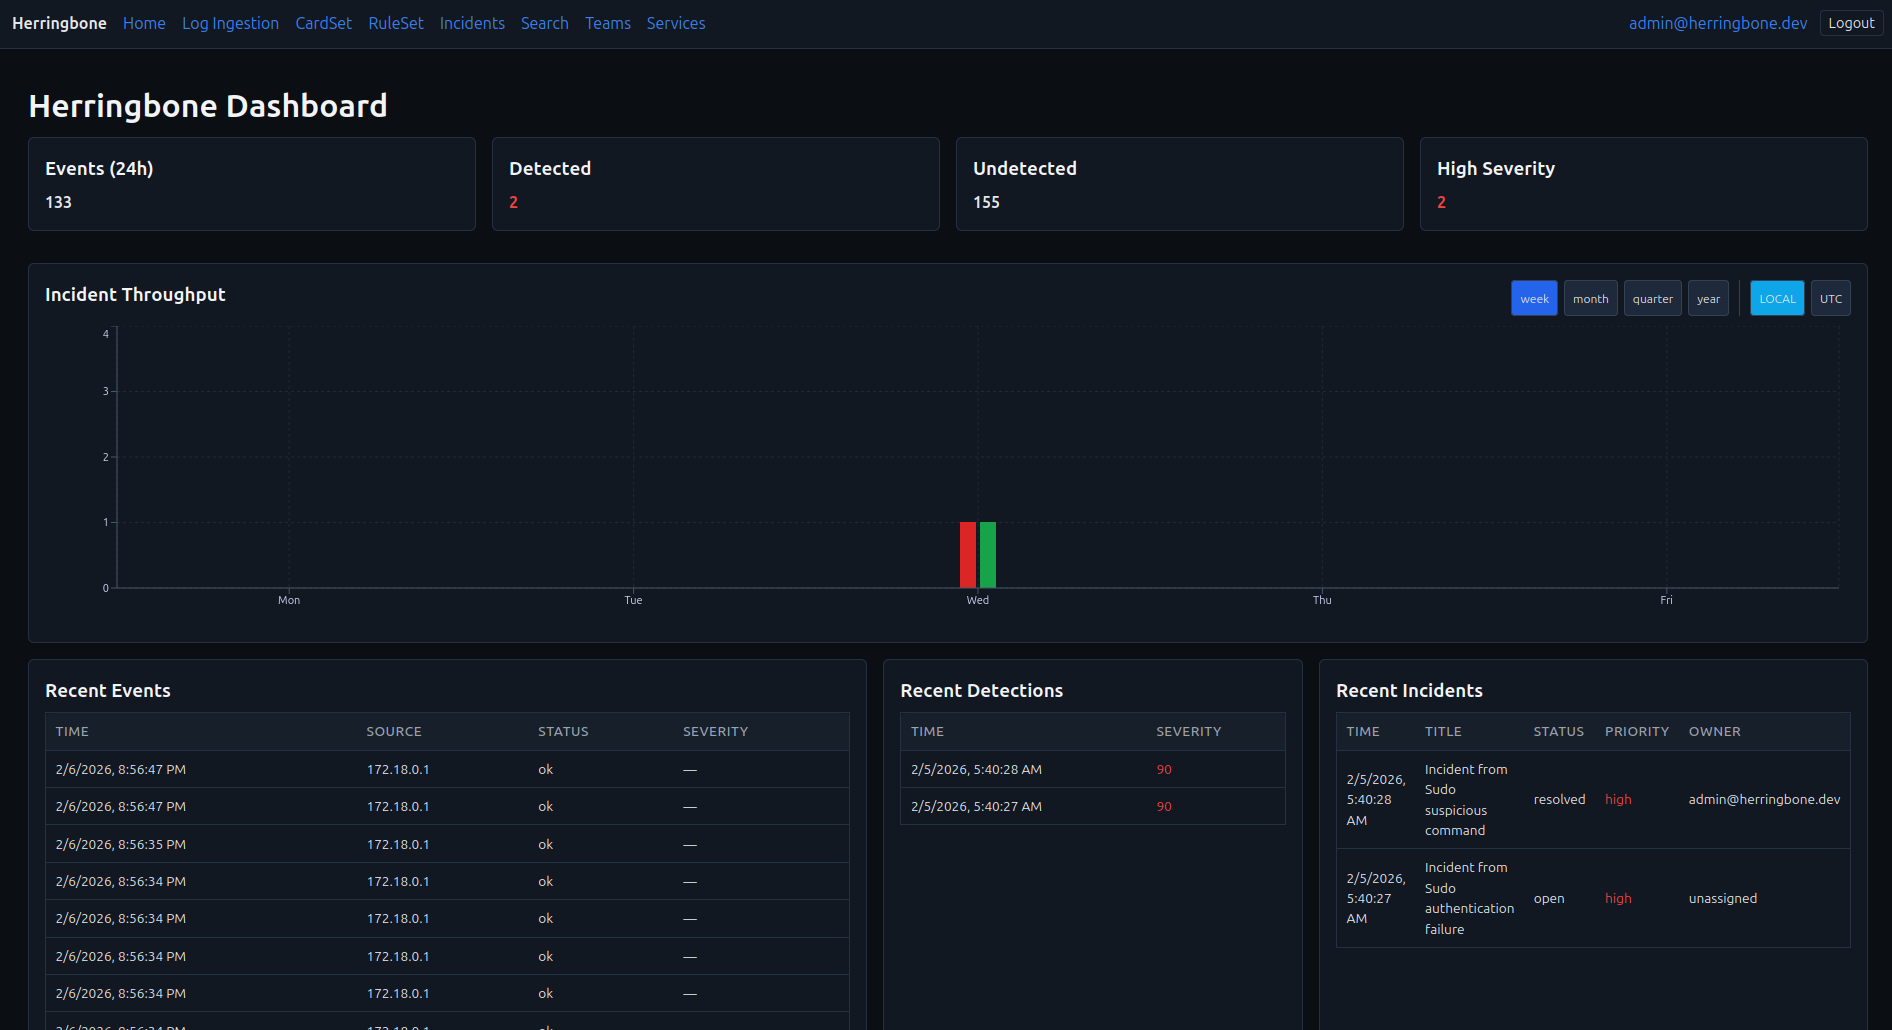
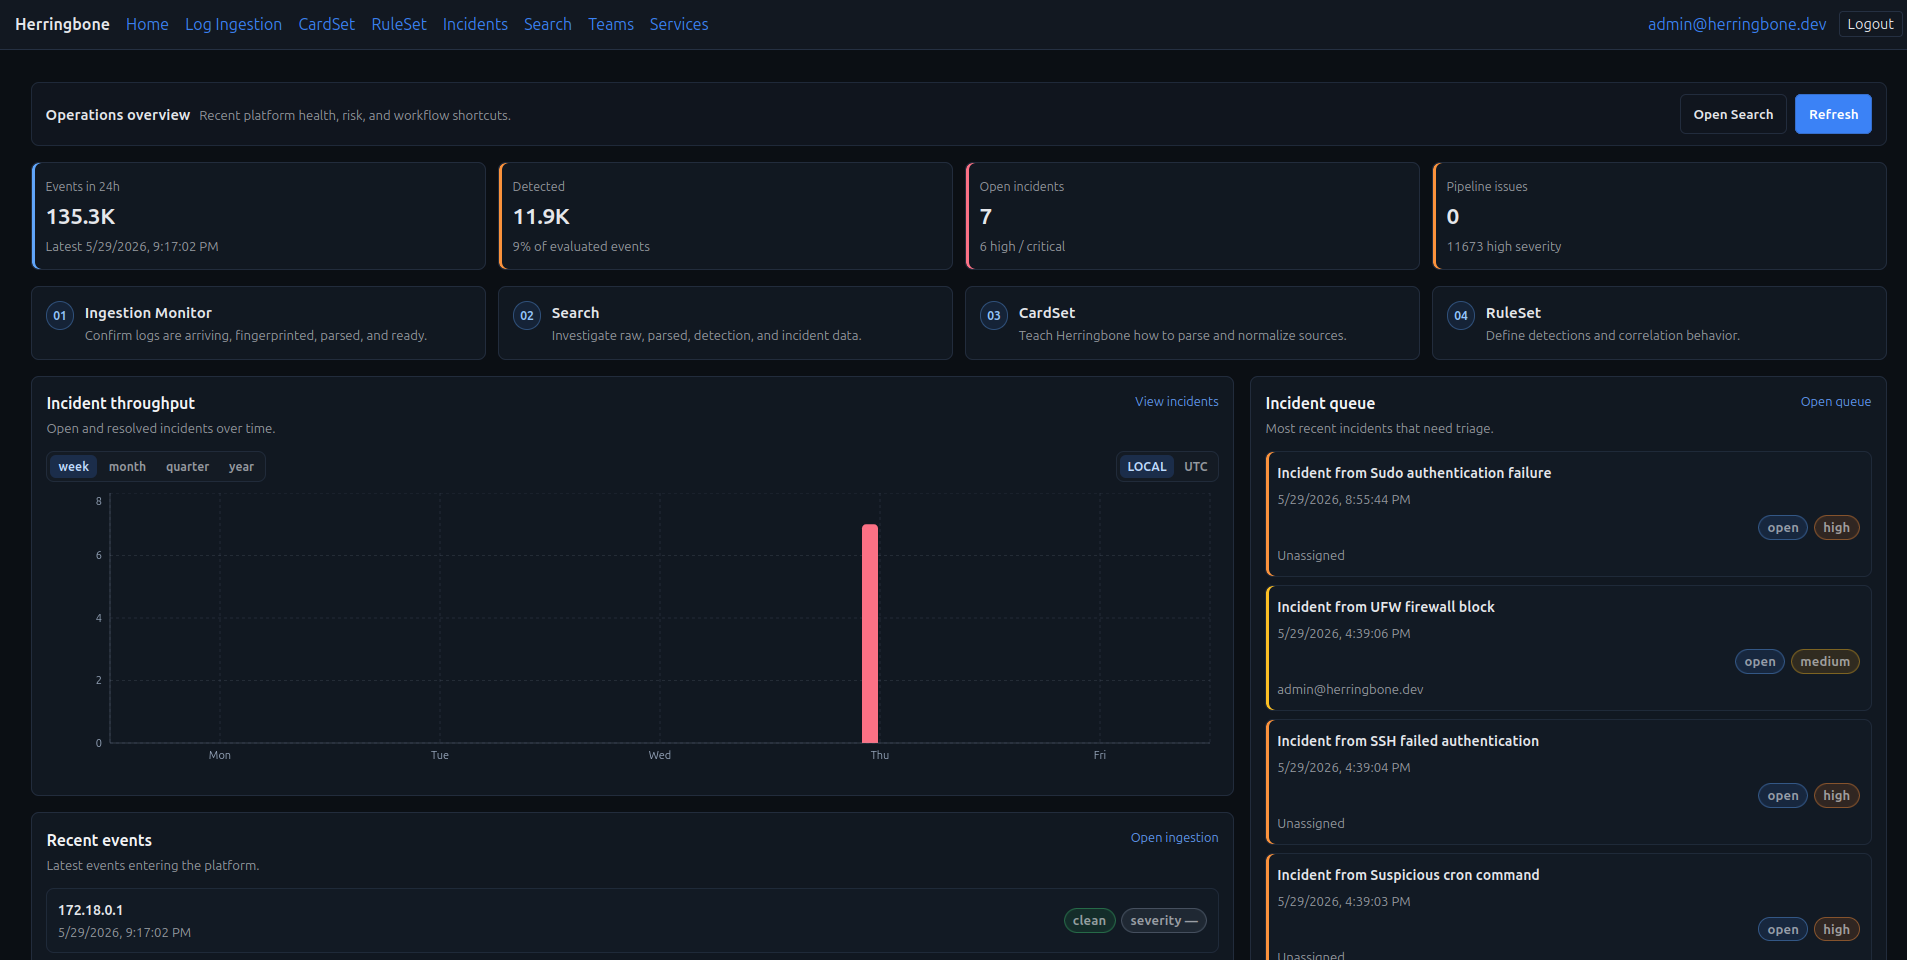
fix readme

diff --git a/README.md b/README.md
@@ -1,56 +1,130 @@
-# Herringbone  
+# Herringbone
 
-**Herringbone** is a modular framework for building SIEM and log management systems. It is designed to be flexible, composable, and deployable in many different ways, depending on your needs.
+**Herringbone** is a modular SIEM and log management platform built from small, independently deployable services.
 
-![Homepage screenshot](docs/images/homepage.png)
+It is designed for teams that want flexible log ingestion, parsing, search, detection, incident creation, and enrichment without being locked into a giant all-or-nothing platform.
 
-## Learn how to use Herringbone  
+Herringbone can run as a full stack, or you can run only the pieces you need.
 
-See the [Wiki](https://github.com/herringbonedev/Herringbone/wiki) for guides, concepts, and usage documentation.
+![Herringbone homepage](docs/images/homepage.png)
 
-## Overview  
+## What Herringbone Does
 
-Herringbone is built from small, independent services called **elements**.  
-Each element performs a single, well-defined function and can run on its own.
+Herringbone helps you collect, parse, search, detect, and respond to security-relevant logs.
 
-Related elements can be grouped into **Units**, which represent a larger capability or purpose. Units are organizational—not mandatory deployment boundaries.
+Core capabilities include:
 
-For example, the **Detection Engine Unit** includes the **Ruleset** and **Detector** elements:
-- **Ruleset** manages detection rules
-- **Detector** evaluates logs against those rules and produces detections
+- Log ingestion over TCP, UDP, and HTTP
+- Parser cards for turning raw logs into structured events
+- Search APIs for querying stored logs
+- Detection rules and detection results
+- Incident creation and correlation
+- Service-to-service authentication
+- Optional enterprise features for organizations, contexts, and multi-tenant deployments
+- Optional AI-assisted enrichment and classification workflows
 
-You can run these elements together, separately, or alongside other systems. You are never required to deploy a full Unit.
+## How It Is Organized
 
-## Core Principles  
+Herringbone is built from independent services called **elements**.
 
-All elements follow two core principles:
+An element is a single service with one job. Examples include:
 
-1. **Independence**  
-   Each element can run and scale on its own without tight coupling to other elements.
+- `logingestion-receiver`
+- `parser-extractor`
+- `parser-cardset`
+- `herringbone-search`
+- `detectionengine-ruleset`
+- `detectionengine-detector`
+- `incidents-orchestrator`
+- `herringbone-auth`
 
-2. **Interoperability**  
-   Elements communicate through consistent, well-defined inputs and outputs, making them easy to integrate with each other or with external systems.
+Related elements are grouped into **units**. Units are a way to organize the platform, not a requirement that everything must be deployed together.
 
-Because of this, Herringbone components can be deployed almost anywhere. While development and testing focus on Kubernetes, elements can run as standalone containers across different environments as long as they share access to the same data store.
+For example, the Detection Engine unit includes services for managing rules and evaluating logs against those rules.
 
-## Features  
+## Core vs Enterprise
 
-- Independent, composable elements  
-- Optional Units for organizing related functionality  
-- AI-assisted elements with Bring Your Own Model support  
-- Designed for Kubernetes but runnable in any container environment  
-- Consistent interfaces for integration and extension  
+Herringbone supports two deployment modes.
 
-## Getting Started  
+### Core
 
-1. Read the **Concepts** documentation to understand how Herringbone is structured  
-2. Review the available **Units** and **elements**  
-3. Deploy only what you need and expand over time  
+Core is the free/single-context deployment. It is meant for local deployments, labs, small environments, and users who want the basic Herringbone pipeline without enterprise organization management.
 
-## Contributing  
+### Enterprise
 
-Contributions are welcome. Please read the [Contributing guide](./CONTRIBUTING.md) before submitting issues or pull requests. All changes require review before merging.
+Enterprise adds organization and context-aware behavior for multi-tenant or customer-facing deployments.
 
-## License  
+Enterprise mode is intended for MSPs, hosted deployments, and environments where multiple organizations or customers need to share the same Herringbone platform safely.
+
+## Deployment
+
+Herringbone is container-first.
+
+Development and testing commonly use Docker Compose. Production deployments may use Kubernetes or another container orchestration platform.
+
+The included `hbctl` tool is the recommended way to manage local Compose-based deployments.
+
+Common commands:
+
+```bash
+hbctl start --all
+hbctl status
+hbctl stop --all
+hbctl upgrade --all
+```
+
+Enterprise mode:
+
+```bash
+hbctl start --all --enterprise
+hbctl upgrade --all --enterprise
+```
+
+Receivers are managed separately so each receiver can keep its own port and deployment shape:
+
+```bash
+hbctl receiver start --type udp --port 7004
+```
+
+## Getting Started
+
+For setup and usage documentation, see the project wiki:
+
+https://github.com/herringbonedev/Herringbone/wiki
+
+A typical local workflow is:
+
+```bash
+hbctl start --all
+hbctl receiver start --type udp --port 7004
+hbctl status
+```
+
+Then send logs to the receiver and use the UI or APIs to inspect parsed events, search results, detections, and incidents.
+
+## Project Goals
+
+Herringbone is built around a few practical goals:
+
+- Keep services small and understandable
+- Allow individual components to scale independently
+- Avoid forcing users into one deployment model
+- Make log parsing and detection workflows easy to extend
+- Support both simple single-context deployments and larger enterprise deployments
+- Keep operational control in the hands of the user
+
+## Status
+
+Herringbone is under active development.
+
+APIs, service boundaries, and deployment files may change between alpha releases. Use the release notes and wiki for upgrade guidance.
+
+## Contributing
+
+Contributions are welcome.
+
+Please read the [Contributing guide](./CONTRIBUTING.md) before submitting issues or pull requests.
+
+## License
 
 Herringbone is released under the [Apache 2.0 License](LICENSE).
